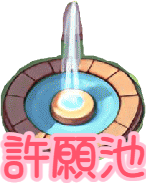
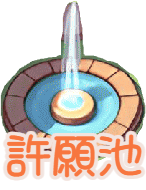
Feat: Modified

Changed region(s): [[0.0, 0.6842, 1.0, 0.9737], [0.9041, 0.3947, 0.9315, 0.4211], [0.4932, 0.0, 0.5205, 0.0263]]

diff --git a/lib/pages/home_page.dart b/lib/pages/home_page.dart
@@ -1,11 +1,8 @@
-import 'dart:ui';
-
 import 'package:flutter/material.dart';
 import 'package:get/get.dart';
 import 'package:rabbit_kingdom/controllers/theme_controller.dart';
 import 'package:rabbit_kingdom/controllers/user_controller.dart';
 import 'package:rabbit_kingdom/helpers/app_colors.dart';
-import 'package:rabbit_kingdom/widgets/r_blurred_overlay.dart';
 import 'package:rabbit_kingdom/widgets/r_button.dart';
 
 class HomePage extends StatelessWidget {
@@ -76,7 +73,7 @@ class _HeaderText extends StatelessWidget {
                     ..style = PaintingStyle.stroke
                     ..strokeWidth = fontSize / 26 * 4
                     ..color = themeController.brightness == Brightness.light ?
-                        Color(0xffe6394d)
+                        Color(0xffe6723d)
                       : AppColors.surfaceContainerHigh,
                 ),
               ),
@@ -88,7 +85,7 @@ class _HeaderText extends StatelessWidget {
                   decoration: TextDecoration.none,
                   fontFamily: 'JFHuninn',
                   color: themeController.brightness == Brightness.light ?
-                    Color(0xffffc1d5)
+                    Color(0xfff2e4df)
                   : AppColors.onSurface,
                 ),
               ),
@@ -126,17 +123,8 @@ class _KingdomView extends StatelessWidget {
   @override
   Widget build(BuildContext context) {
     return GetBuilder<ThemeController>(
-      builder: (controller) {
-        final themeController = Get.find<ThemeController>();
-        final mode = themeController.themeMode.value;
-        final brightness = () {
-          if (mode == ThemeMode.system) {
-            return MediaQuery.platformBrightnessOf(Get.context!);
-          }
-          return mode == ThemeMode.dark ? Brightness.dark : Brightness.light;
-        }();
-        final phase = brightness == Brightness.light ? "day" : "night";
-
+      builder: (themeController) {
+        final phase = themeController.brightness == Brightness.light ? "day" : "night";
         final screenWidth = MediaQuery.of(context).size.width;
 
         // 根據原始背景比例換算高度
